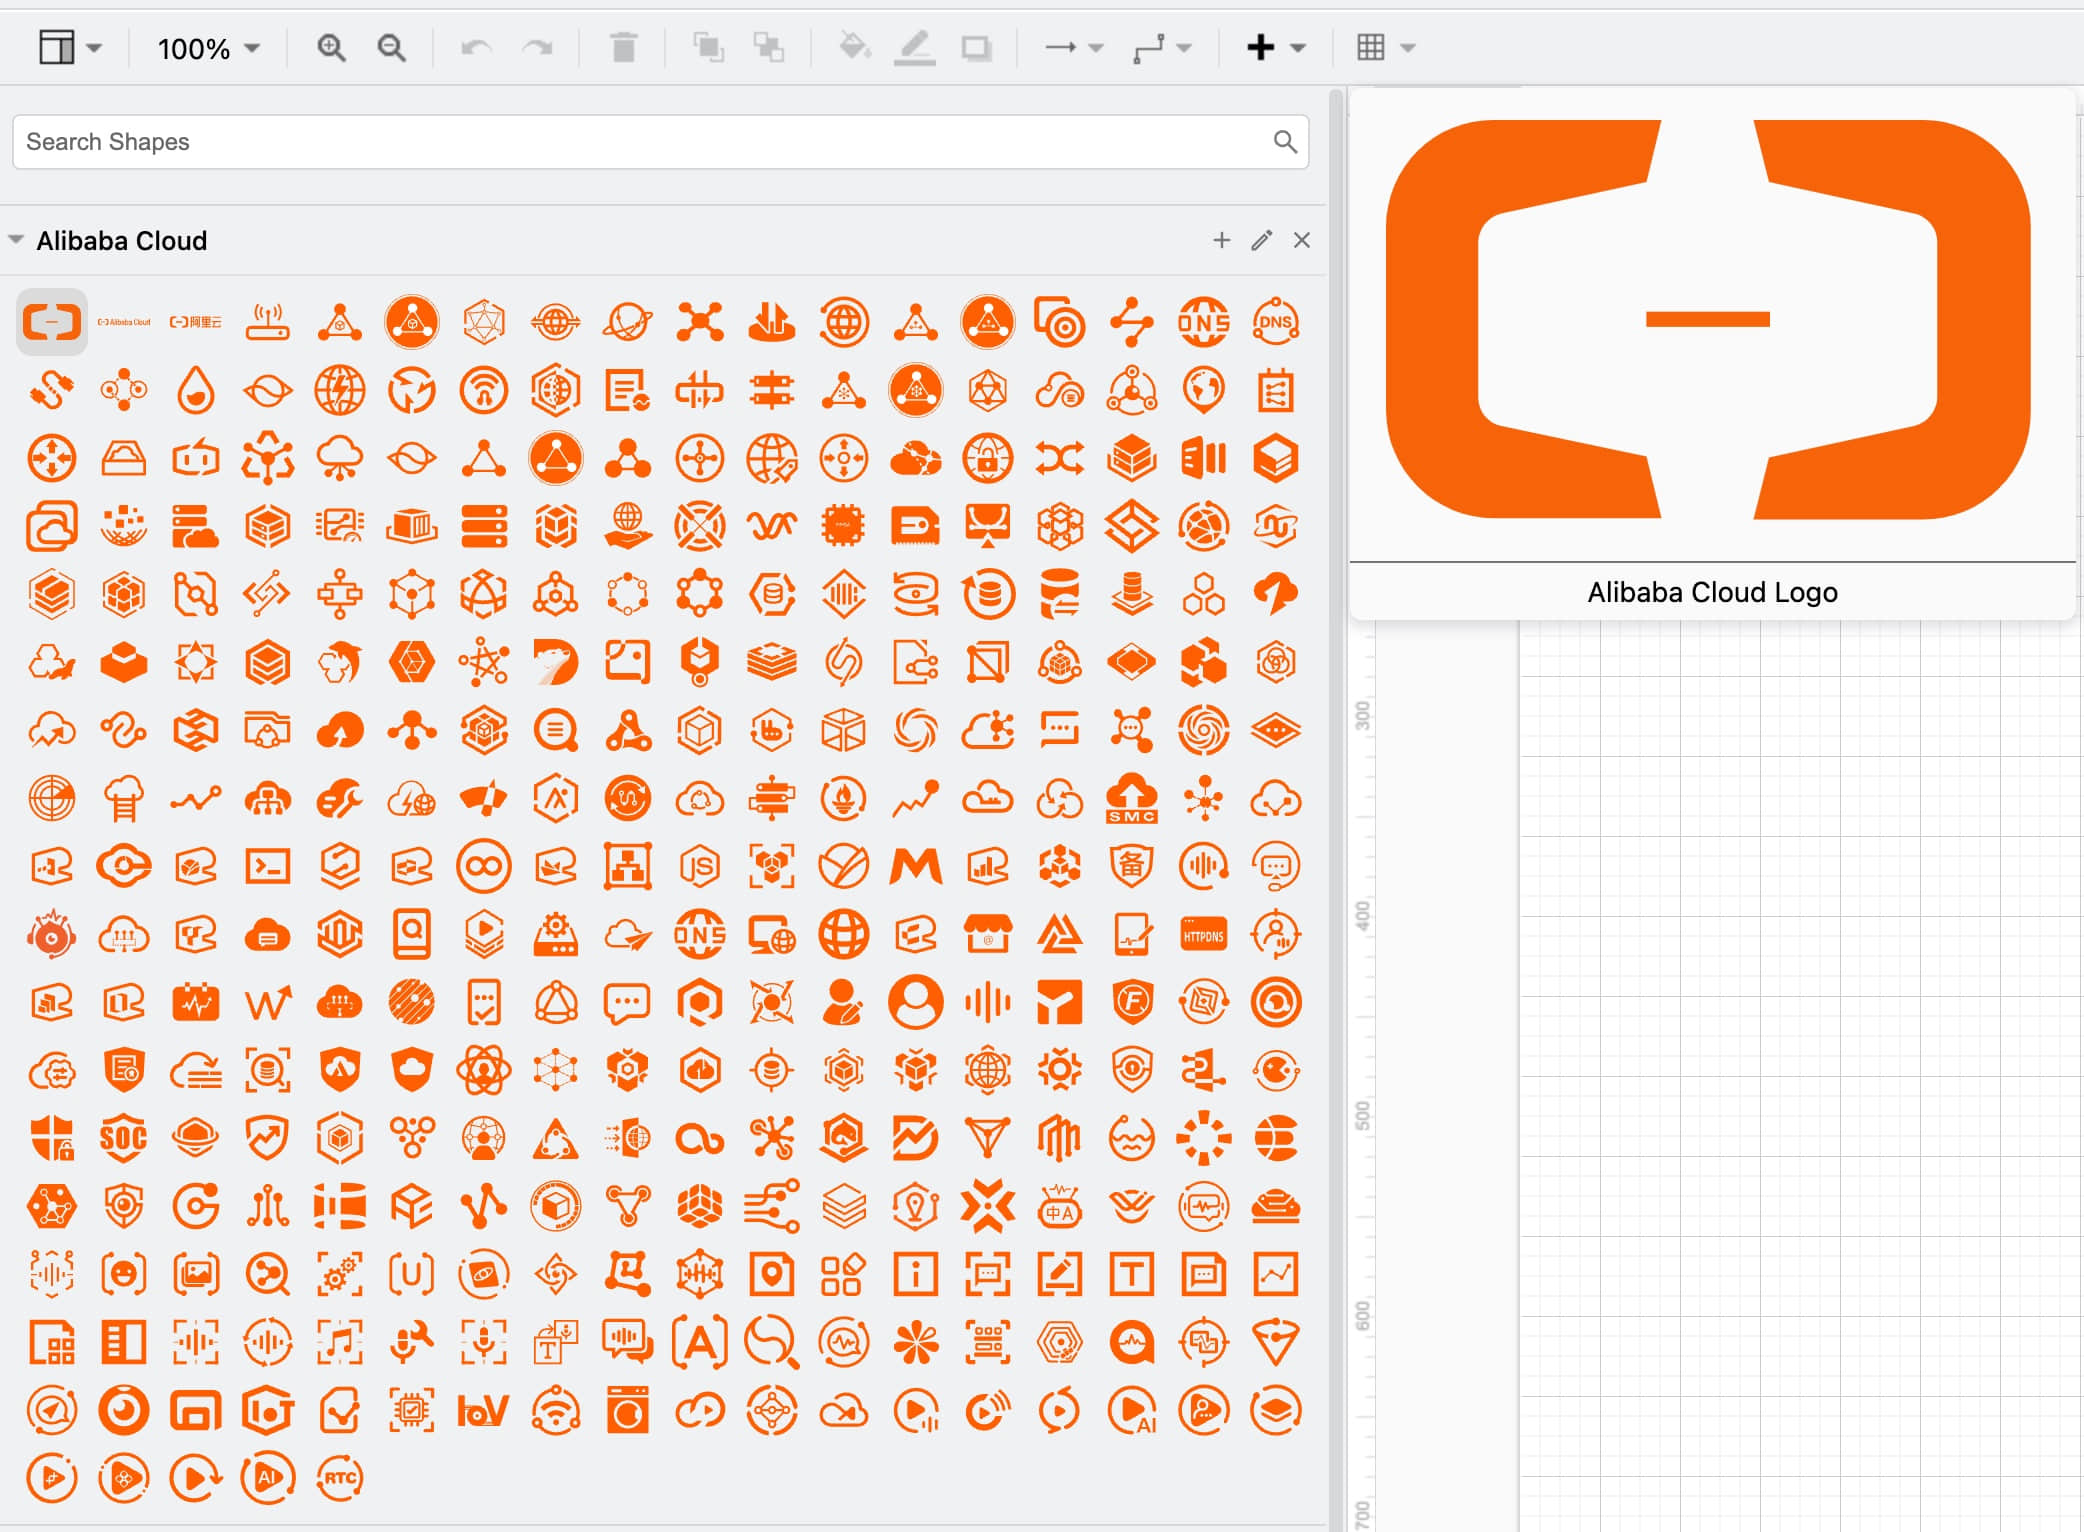
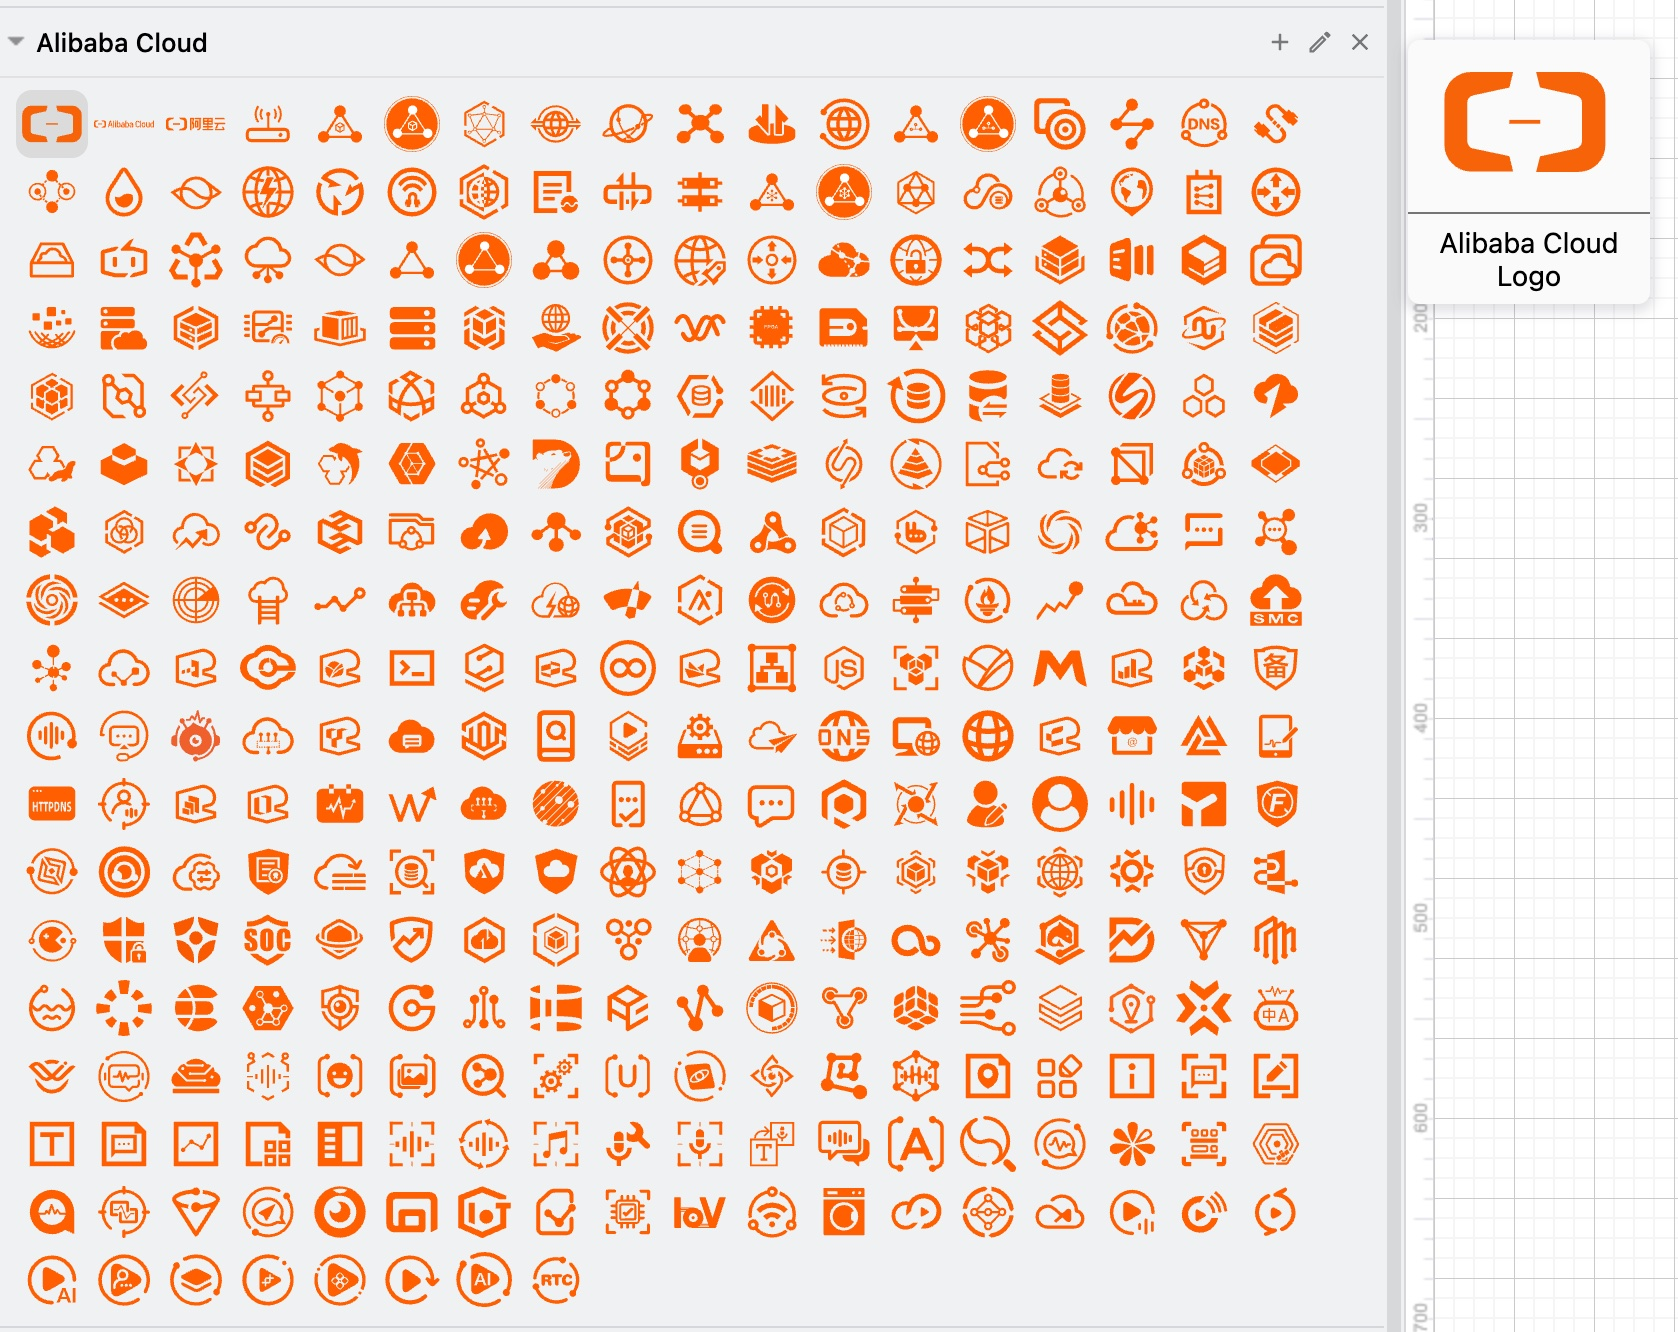
Update site on Dec 09, 2024

diff --git a/2024/01/阿里云官方矢量图标和-draw.io-自定义图标库/index.html b/2024/01/阿里云官方矢量图标和-draw.io-自定义图标库/index.html
@@ -144,7 +144,7 @@
             data-src="/2024/01/%E9%98%BF%E9%87%8C%E4%BA%91%E5%AE%98%E6%96%B9%E7%9F%A2%E9%87%8F%E5%9B%BE%E6%A0%87%E5%92%8C-draw.io-%E8%87%AA%E5%AE%9A%E4%B9%89%E5%9B%BE%E6%A0%87%E5%BA%93/alibaba-cloud-drawio-library.jpg"
             data-srcset="/2024/01/%E9%98%BF%E9%87%8C%E4%BA%91%E5%AE%98%E6%96%B9%E7%9F%A2%E9%87%8F%E5%9B%BE%E6%A0%87%E5%92%8C-draw.io-%E8%87%AA%E5%AE%9A%E4%B9%89%E5%9B%BE%E6%A0%87%E5%BA%93/alibaba-cloud-drawio-library.jpg, /2024/01/%E9%98%BF%E9%87%8C%E4%BA%91%E5%AE%98%E6%96%B9%E7%9F%A2%E9%87%8F%E5%9B%BE%E6%A0%87%E5%92%8C-draw.io-%E8%87%AA%E5%AE%9A%E4%B9%89%E5%9B%BE%E6%A0%87%E5%BA%93/alibaba-cloud-drawio-library.jpg 1.5x, /2024/01/%E9%98%BF%E9%87%8C%E4%BA%91%E5%AE%98%E6%96%B9%E7%9F%A2%E9%87%8F%E5%9B%BE%E6%A0%87%E5%92%8C-draw.io-%E8%87%AA%E5%AE%9A%E4%B9%89%E5%9B%BE%E6%A0%87%E5%BA%93/alibaba-cloud-drawio-library.jpg 2x"
             data-sizes="auto"
-            alt="alibaba-cloud-drawio-library" width="800" height="1532" />
+            alt="alibaba-cloud-drawio-library" width="800" height="1332" />
     </a>
 <h2 id="drawio-自定义图标库下载">draw.io 自定义图标库下载</h2>
 <p><a href="https://github.com/mcsrainbow/alibaba-cloud-icons/blob/main/2022-orange/drawio/cn/Alibaba%20Cloud.xml" target="_blank" rel="noopener noreffer ">中文版 Alibaba Cloud.xml</a> | <a href="https://github.com/mcsrainbow/alibaba-cloud-icons/blob/main/2022-orange/drawio/en/Alibaba%20Cloud.xml" target="_blank" rel="noopener noreffer ">英文版 Alibaba Cloud.xml</a></p>

diff --git a/en/2024/01/alibaba-cloud-official-vector-icons-and-draw.io-custom-libraries/index.html b/en/2024/01/alibaba-cloud-official-vector-icons-and-draw.io-custom-libraries/index.html
@@ -143,7 +143,7 @@ So I collected a complete set of Alibaba Cloud vector icons and generated the dr
             data-src="/2024/01/%E9%98%BF%E9%87%8C%E4%BA%91%E5%AE%98%E6%96%B9%E7%9F%A2%E9%87%8F%E5%9B%BE%E6%A0%87%E5%92%8C-draw.io-%E8%87%AA%E5%AE%9A%E4%B9%89%E5%9B%BE%E6%A0%87%E5%BA%93/alibaba-cloud-drawio-library.jpg"
             data-srcset="/2024/01/%E9%98%BF%E9%87%8C%E4%BA%91%E5%AE%98%E6%96%B9%E7%9F%A2%E9%87%8F%E5%9B%BE%E6%A0%87%E5%92%8C-draw.io-%E8%87%AA%E5%AE%9A%E4%B9%89%E5%9B%BE%E6%A0%87%E5%BA%93/alibaba-cloud-drawio-library.jpg, /2024/01/%E9%98%BF%E9%87%8C%E4%BA%91%E5%AE%98%E6%96%B9%E7%9F%A2%E9%87%8F%E5%9B%BE%E6%A0%87%E5%92%8C-draw.io-%E8%87%AA%E5%AE%9A%E4%B9%89%E5%9B%BE%E6%A0%87%E5%BA%93/alibaba-cloud-drawio-library.jpg 1.5x, /2024/01/%E9%98%BF%E9%87%8C%E4%BA%91%E5%AE%98%E6%96%B9%E7%9F%A2%E9%87%8F%E5%9B%BE%E6%A0%87%E5%92%8C-draw.io-%E8%87%AA%E5%AE%9A%E4%B9%89%E5%9B%BE%E6%A0%87%E5%BA%93/alibaba-cloud-drawio-library.jpg 2x"
             data-sizes="auto"
-            alt="alibaba-cloud-drawio-library" width="800" height="1532" />
+            alt="alibaba-cloud-drawio-library" width="800" height="1332" />
     </a>
 <h2 id="download-drawio-custom-library">Download draw.io Custom Library</h2>
 <p><a href="https://github.com/mcsrainbow/alibaba-cloud-icons/blob/main/2022-orange/drawio/en/Alibaba%20Cloud.xml" target="_blank" rel="noopener noreffer ">Alibaba Cloud.xml</a></p>
